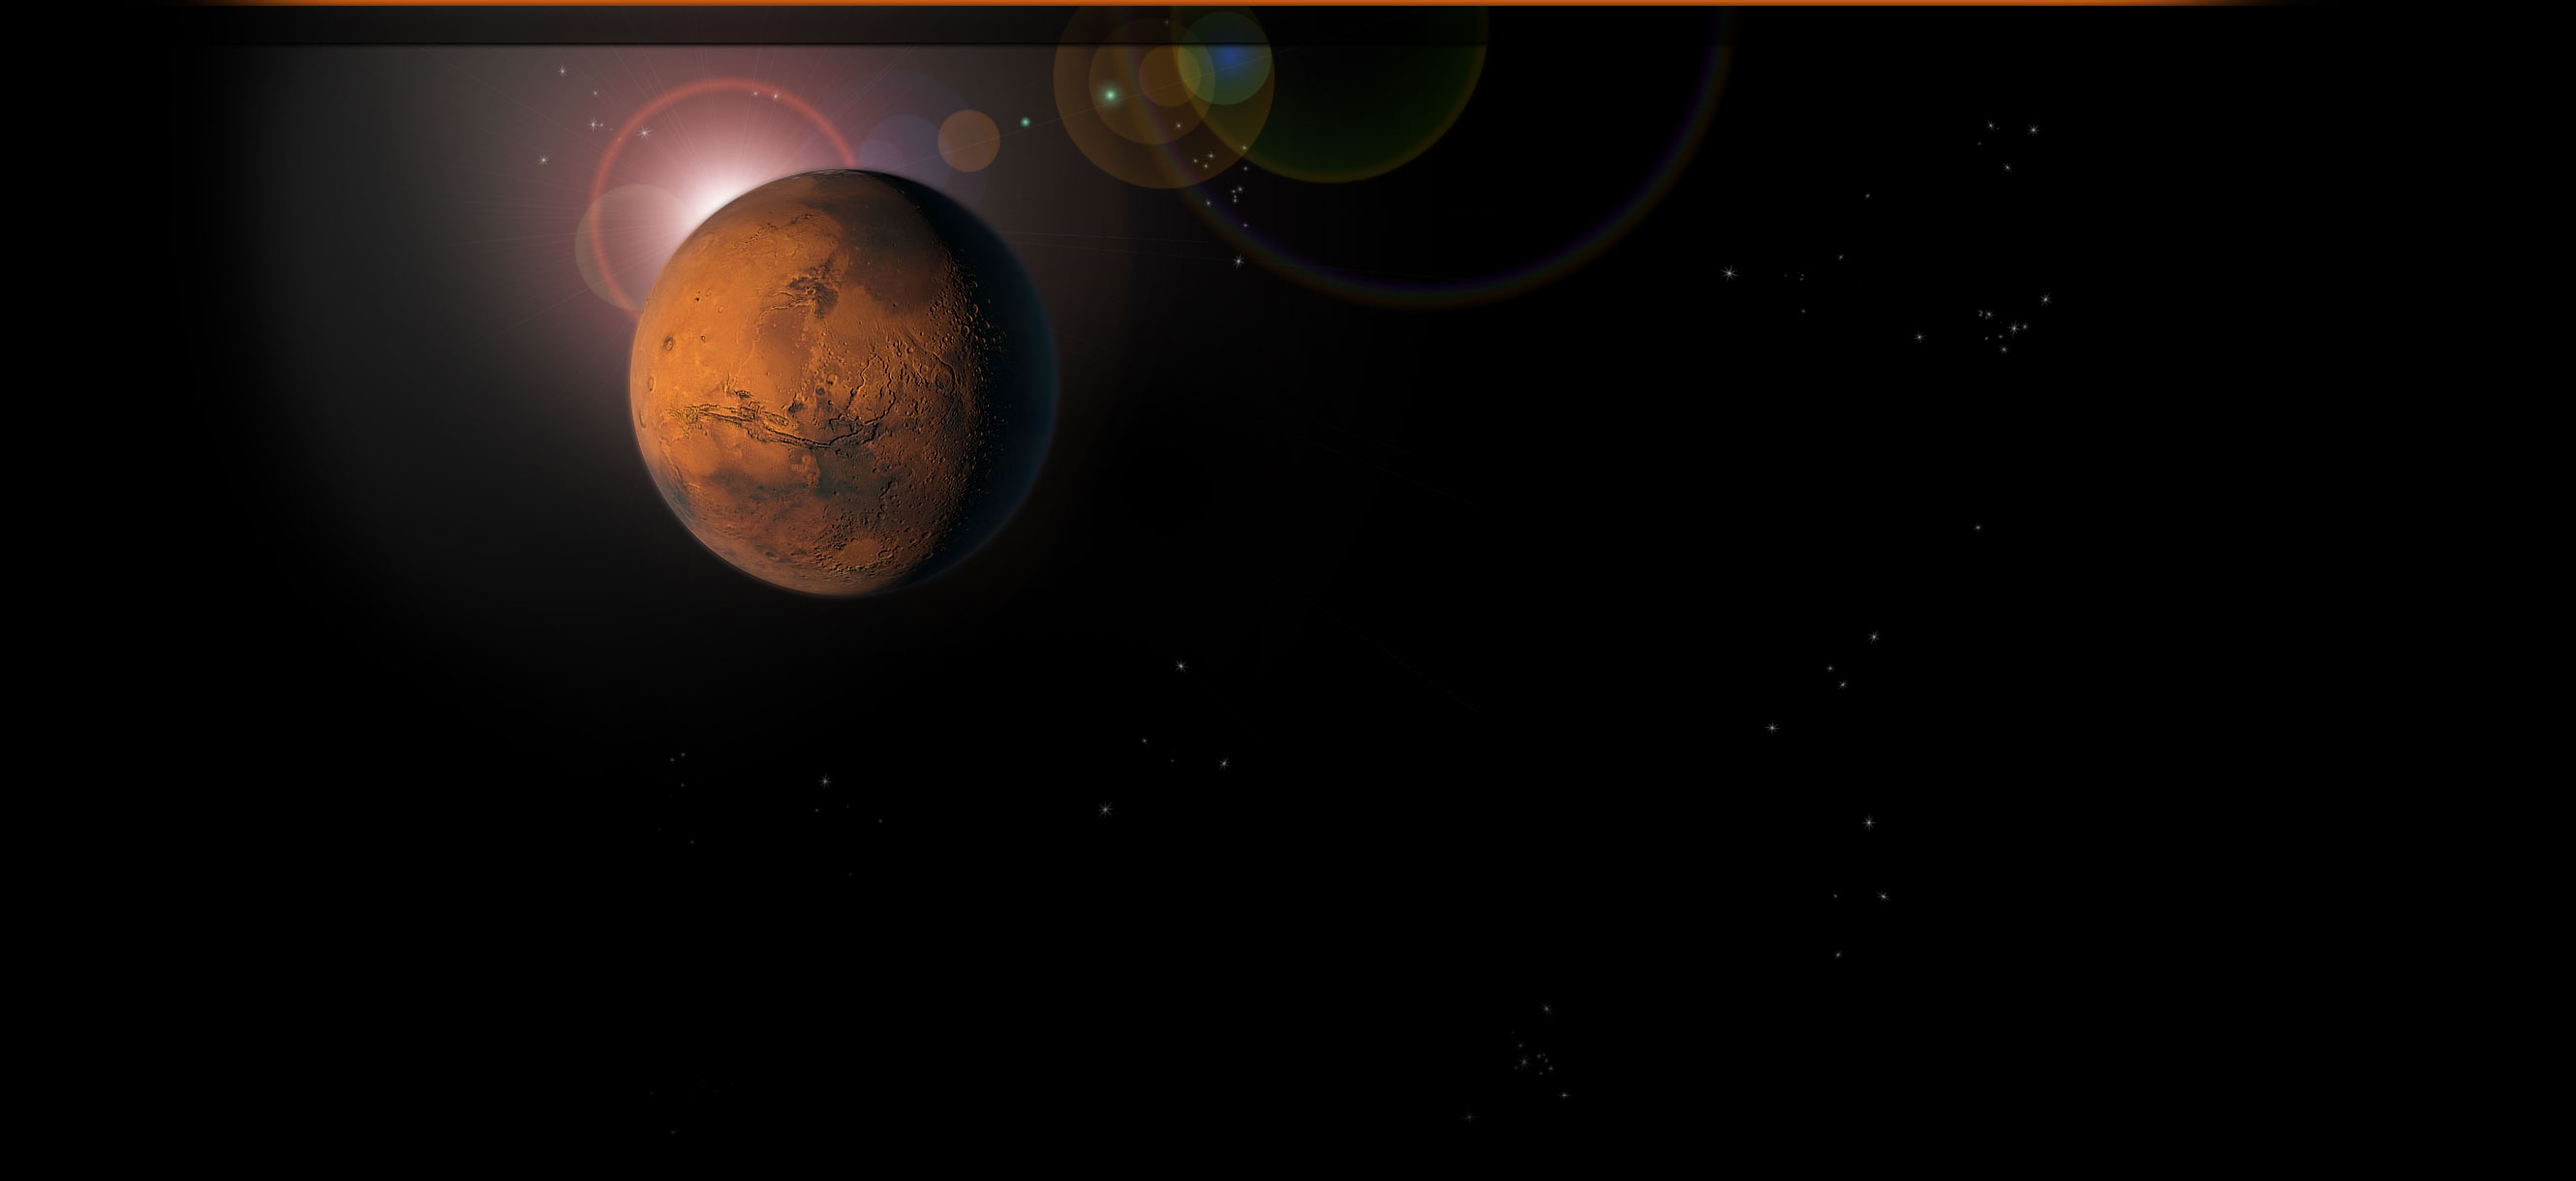
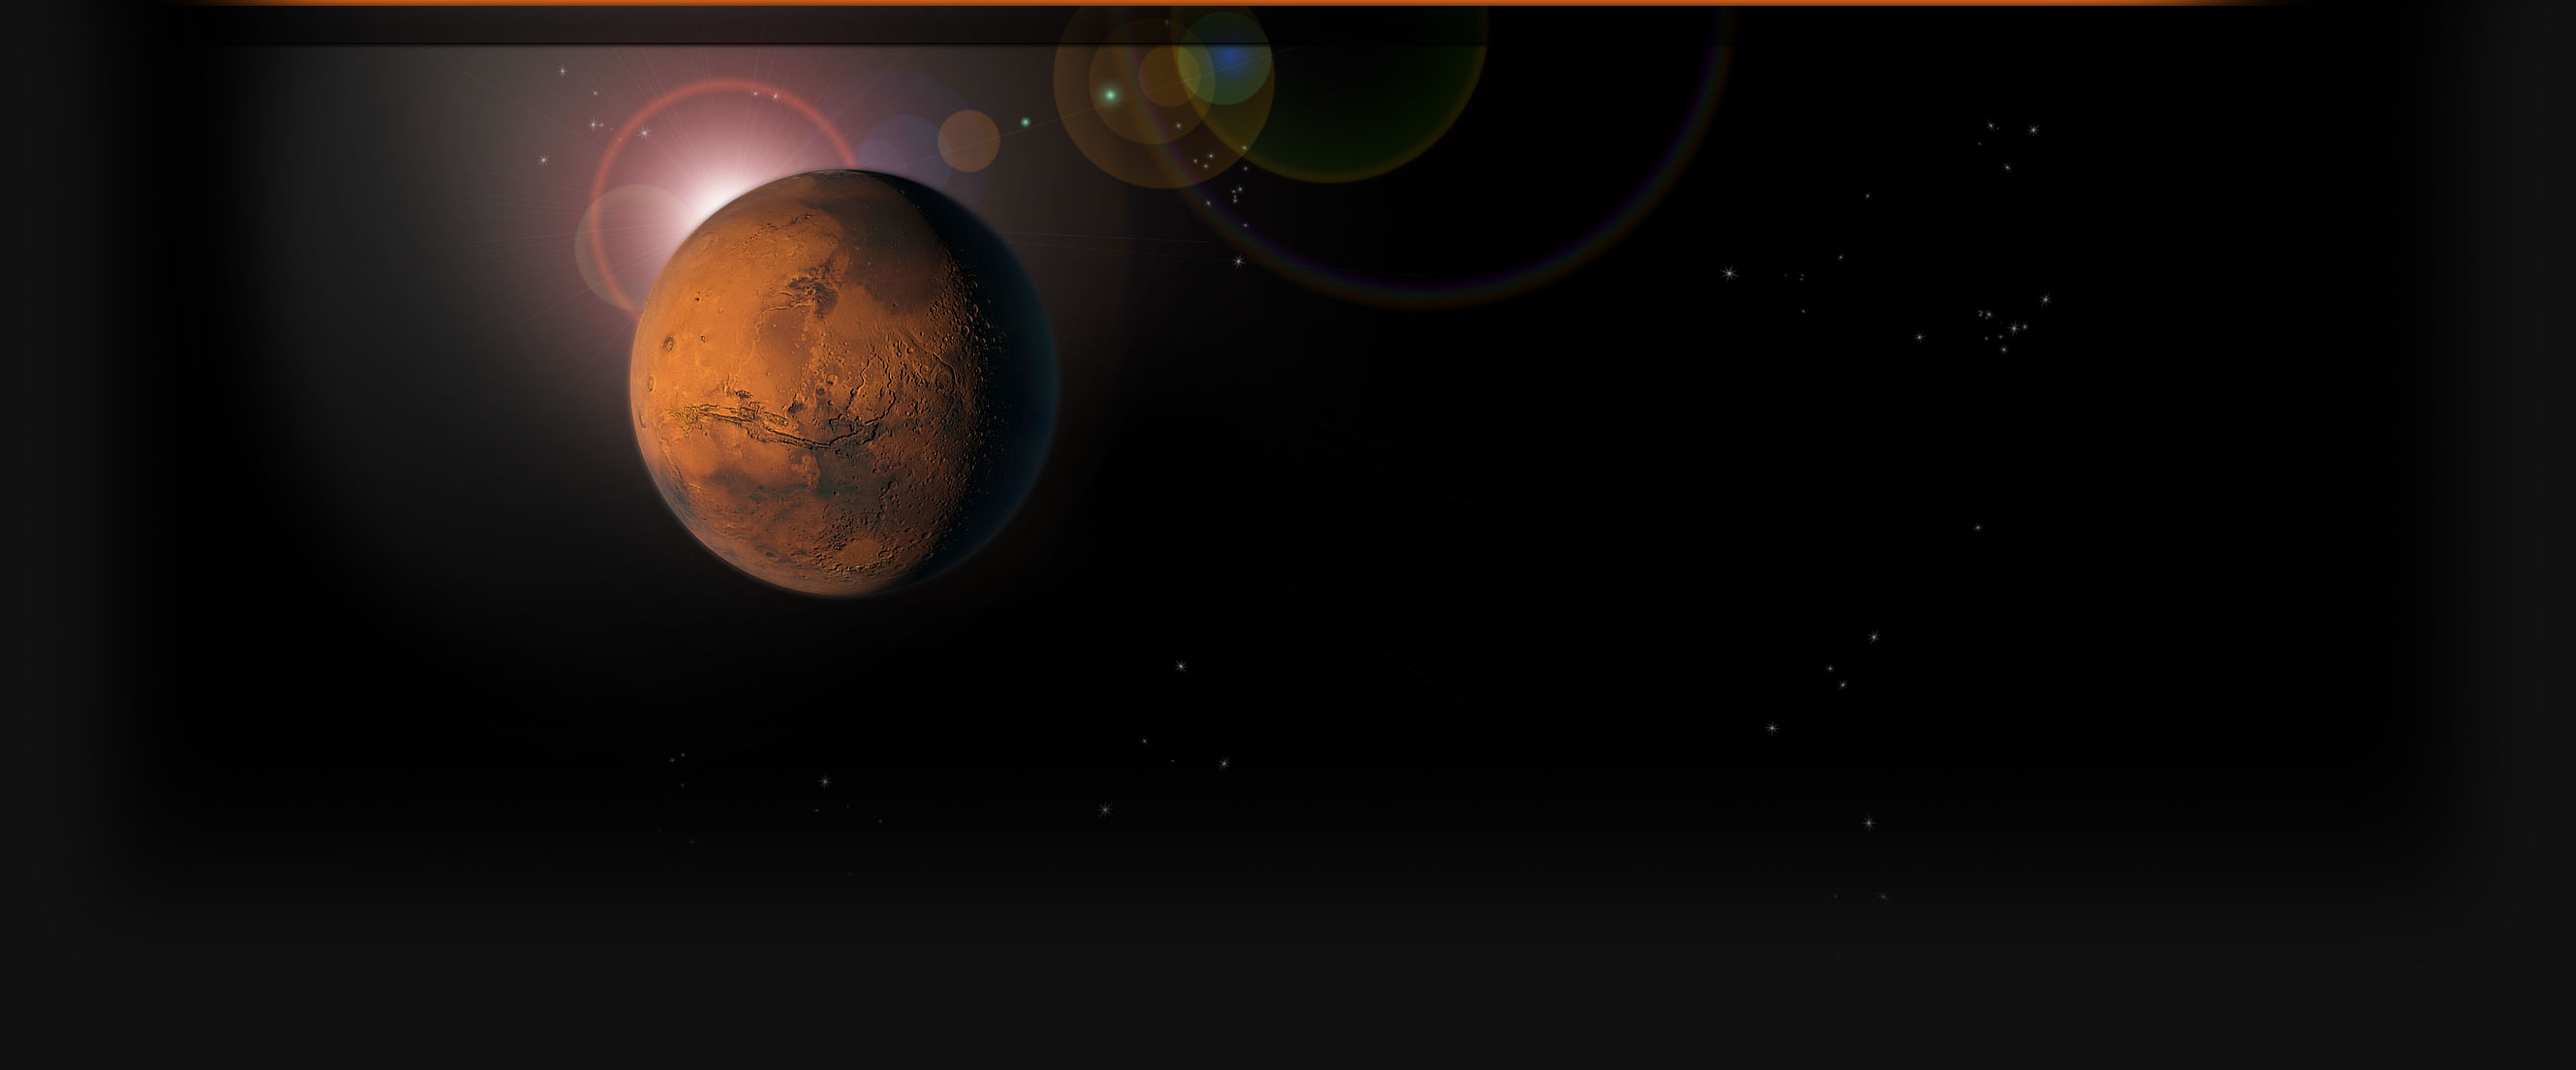
bg fix
Former-commit-id: 40d795f73bcf1119d019e593b1abe5bfc734087c

diff --git a/src/site/bits/style.css b/src/site/bits/style.css
@@ -1,6 +1,5 @@
 @charset "utf-8";
 body {
-	background: #111111 url(/bits/background.jpg) no-repeat scroll center top;
 	margin: 0px;
 	padding: 0px;
 	font: 14px sans-serif;

diff --git a/src/site/bits/index.php b/src/site/bits/index.php
@@ -41,7 +41,7 @@
 	$app['sflogo'] = 11;
 	$app['sfpiwik'] = 1; // use SF's piwik with idsite=N
 
-	$app['ircnetwork'] = "irc.bloodfrontier.com";
+	$app['ircnetwork'] = "irc.freenode.net";
 	$app['ircchannel'] = "bloodfrontier";
 	$app['ircsetup'] = "bloodfrontier";
 
@@ -132,7 +132,7 @@
       
 <?php } ?>
 	</head>
-	<body style="background-image: url(<?php echo $app['sitebg']; ?>)">
+	<body style="background: #111111 url(<?php echo $app['sitebg']; ?>) no-repeat center top">
 		<div id="container">
 			<div id="links"><?php echo $app['navbar']; ?></div>
 			<div id="header">
